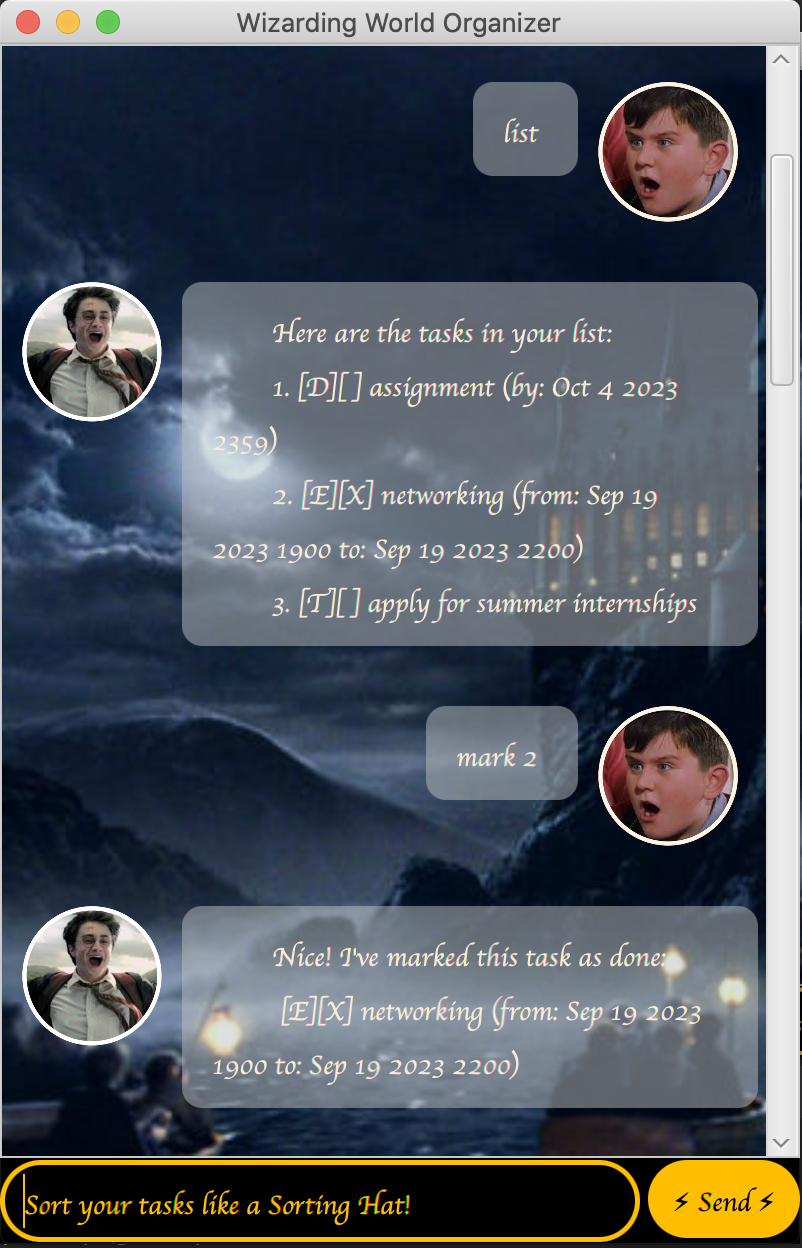
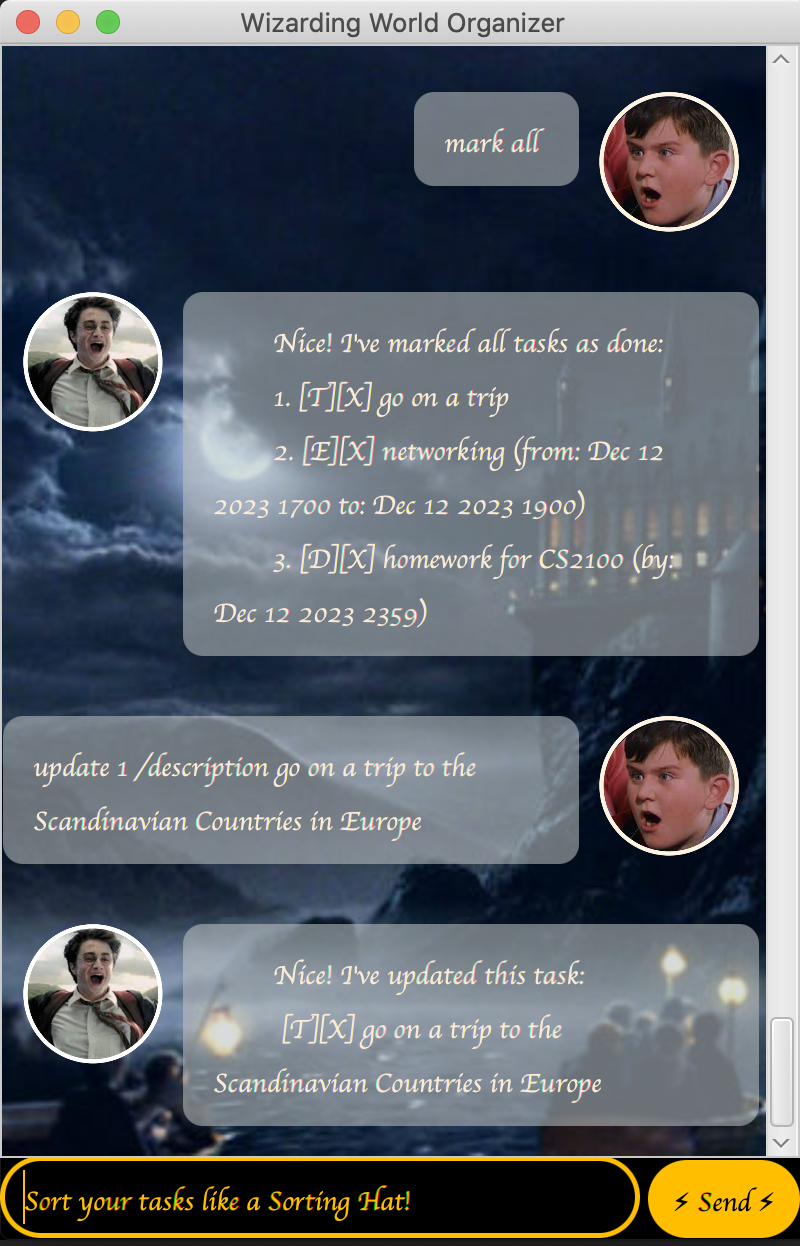
Update README.md

diff --git a/docs/README.md b/docs/README.md
@@ -2,6 +2,7 @@
 
 ## Features
 1. Add / Delete task
+2. Update attributes of the specified task in the list
 2. Mark / Unmark task
 3. Mark / Unmark / Delete all tasks
 4. Find tasks with a matching keyword
@@ -12,6 +13,10 @@
 
 Allows users to add or delete tasks of type (ToDo, Deadline & Event)
 from the list of tasks.
+
+### Update task
+
+Update description or dates of the task at specified index from the list of tasks.
 
 ### Mark / Unmark task
 
@@ -51,6 +56,44 @@ Here are the commands for use:
 2. mark<index>: marks task at <index> in the list as done \n"
 3. mark all: marks all tasks in the list as done 
 ...
+
+```
+### `update` - Update attributes of a task in the list
+
+Users can specify the task and update attributes like description & start or end dates & times depending on the type of Task
+
+Example of usage:
+
+`update 1 /description go on a holiday`
+
+Expected outcome:
+```
+Nice! I've updated this task:
+[T][ ] go on a holiday
+
+```
+`update 1 /deadline 2023-12-12 2359`
+
+Expected outcome:
+```
+Nice! I've updated this task:
+[D][ ] homework (by: Dec 12 2023 2200)
+
+```
+`update 2 /event start date 2023-12-12 1900`
+
+Expected outcome:
+```
+Nice! I've updated this task:
+[E][ ] networking (from: Dec 12 2023 1900 to: Dec 12 2130)
+
+```
+`update 2 /event end date 2023-12-12 2100`
+
+Expected outcome:
+```
+Nice! I've updated this task:
+[E][ ] networking (from: Dec 12 2023 1900 to: Dec 12 2100)
 
 ```
 ### `list` - returns list of tasks
